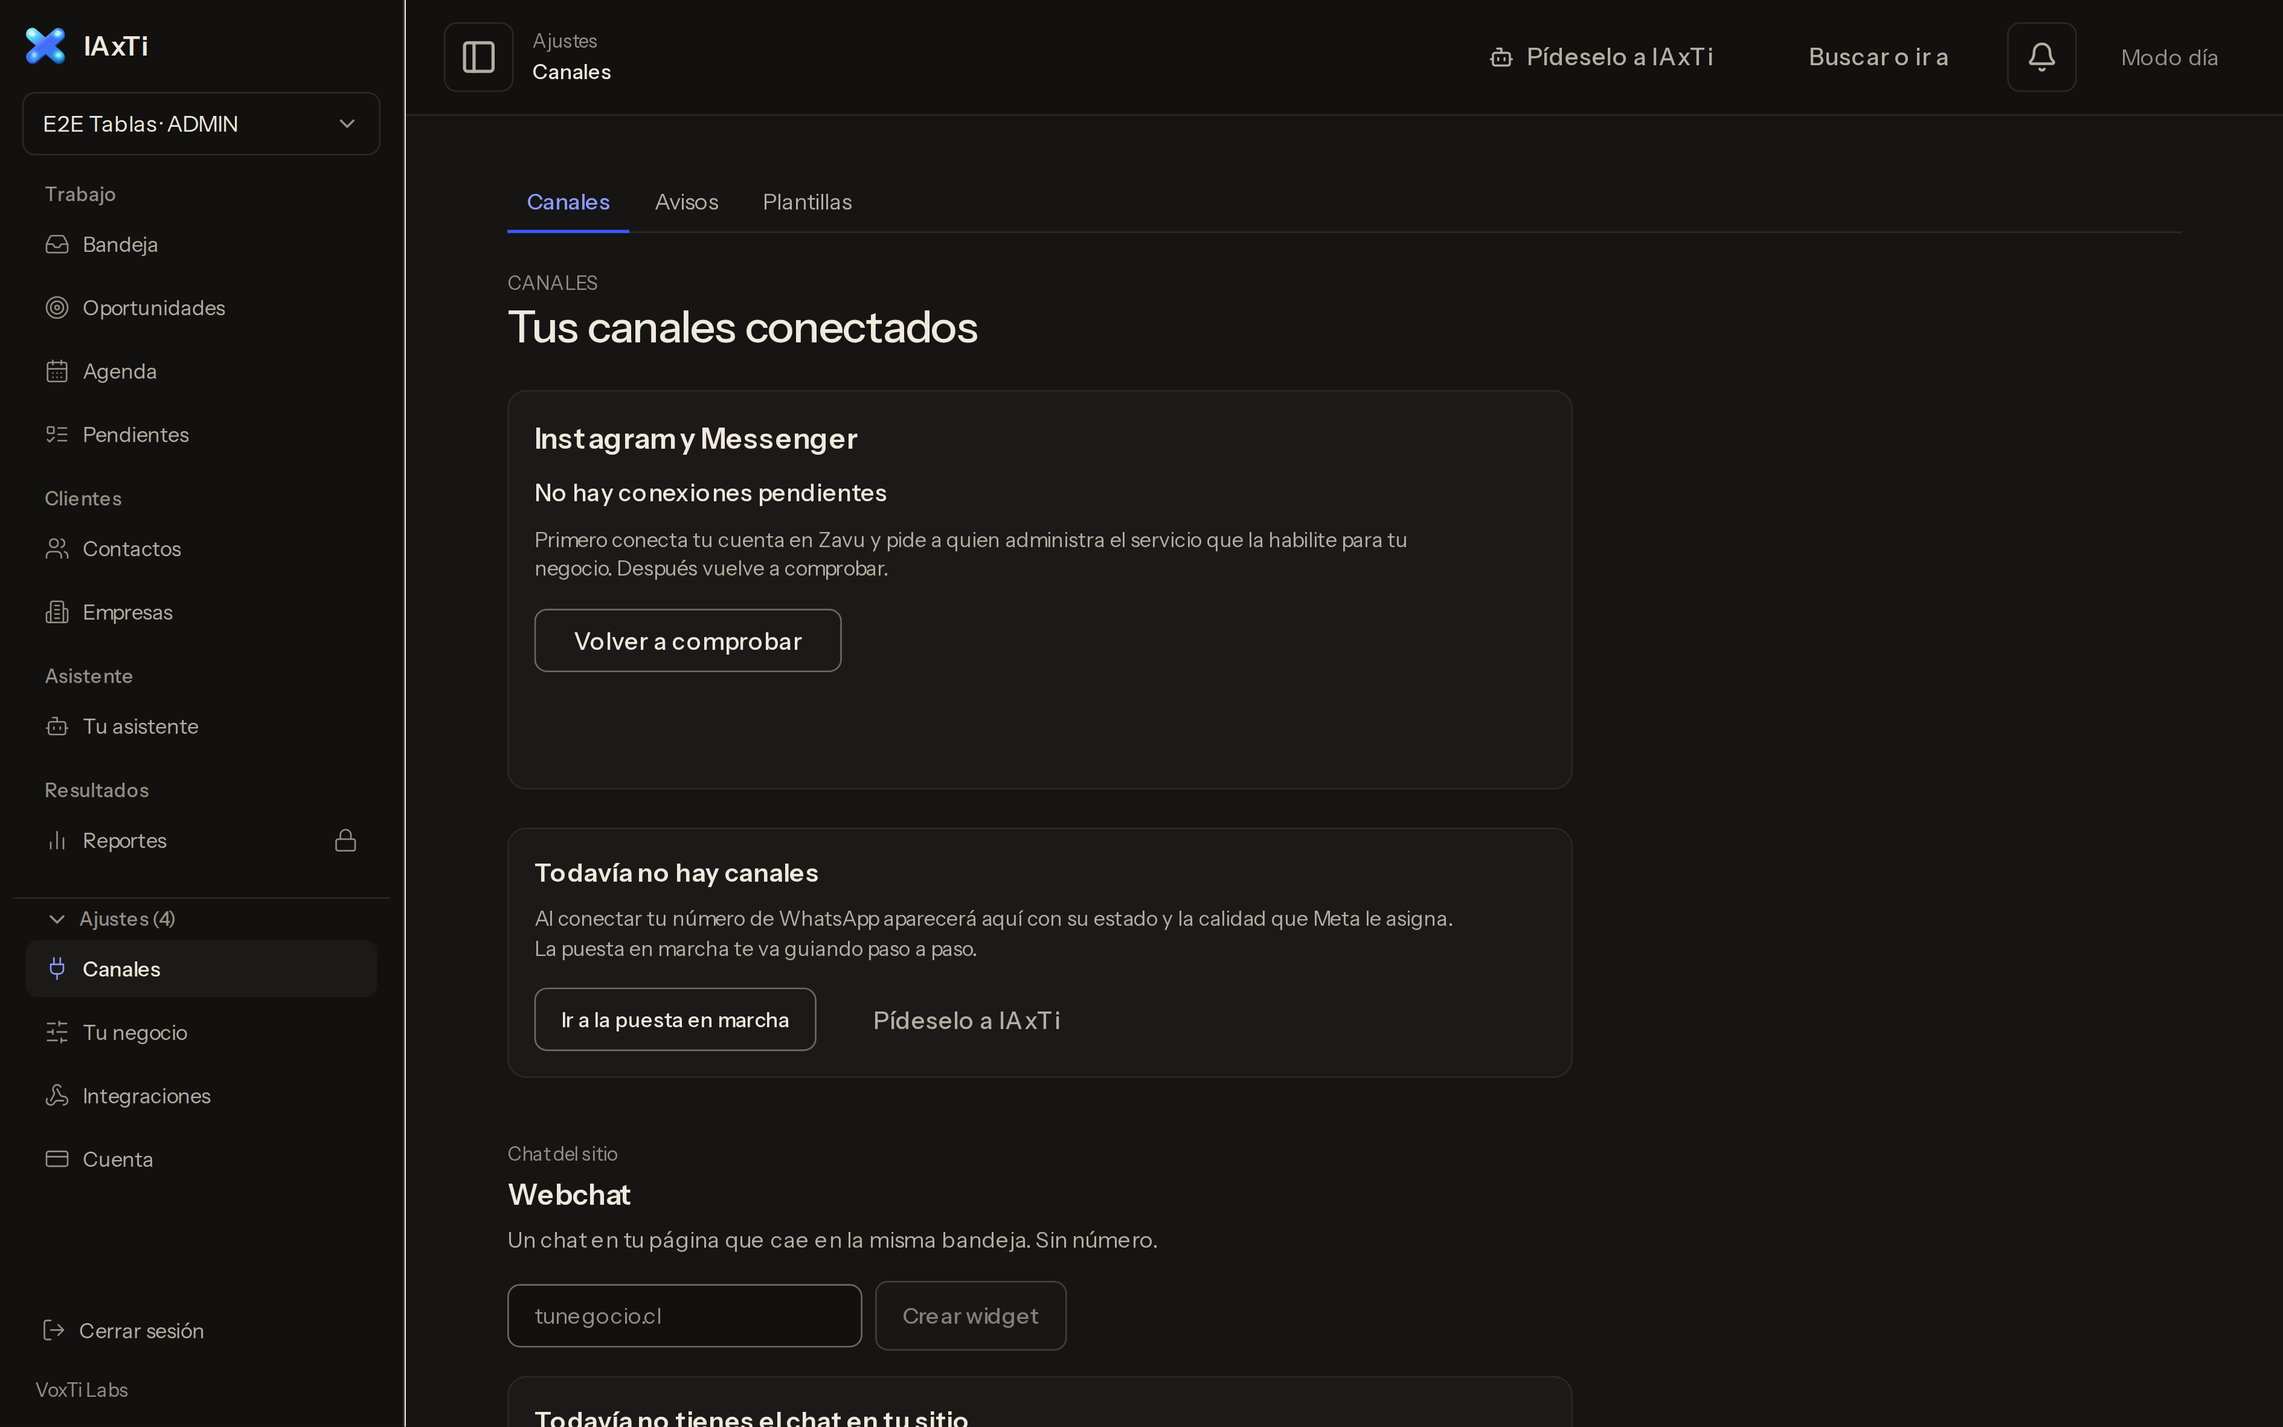
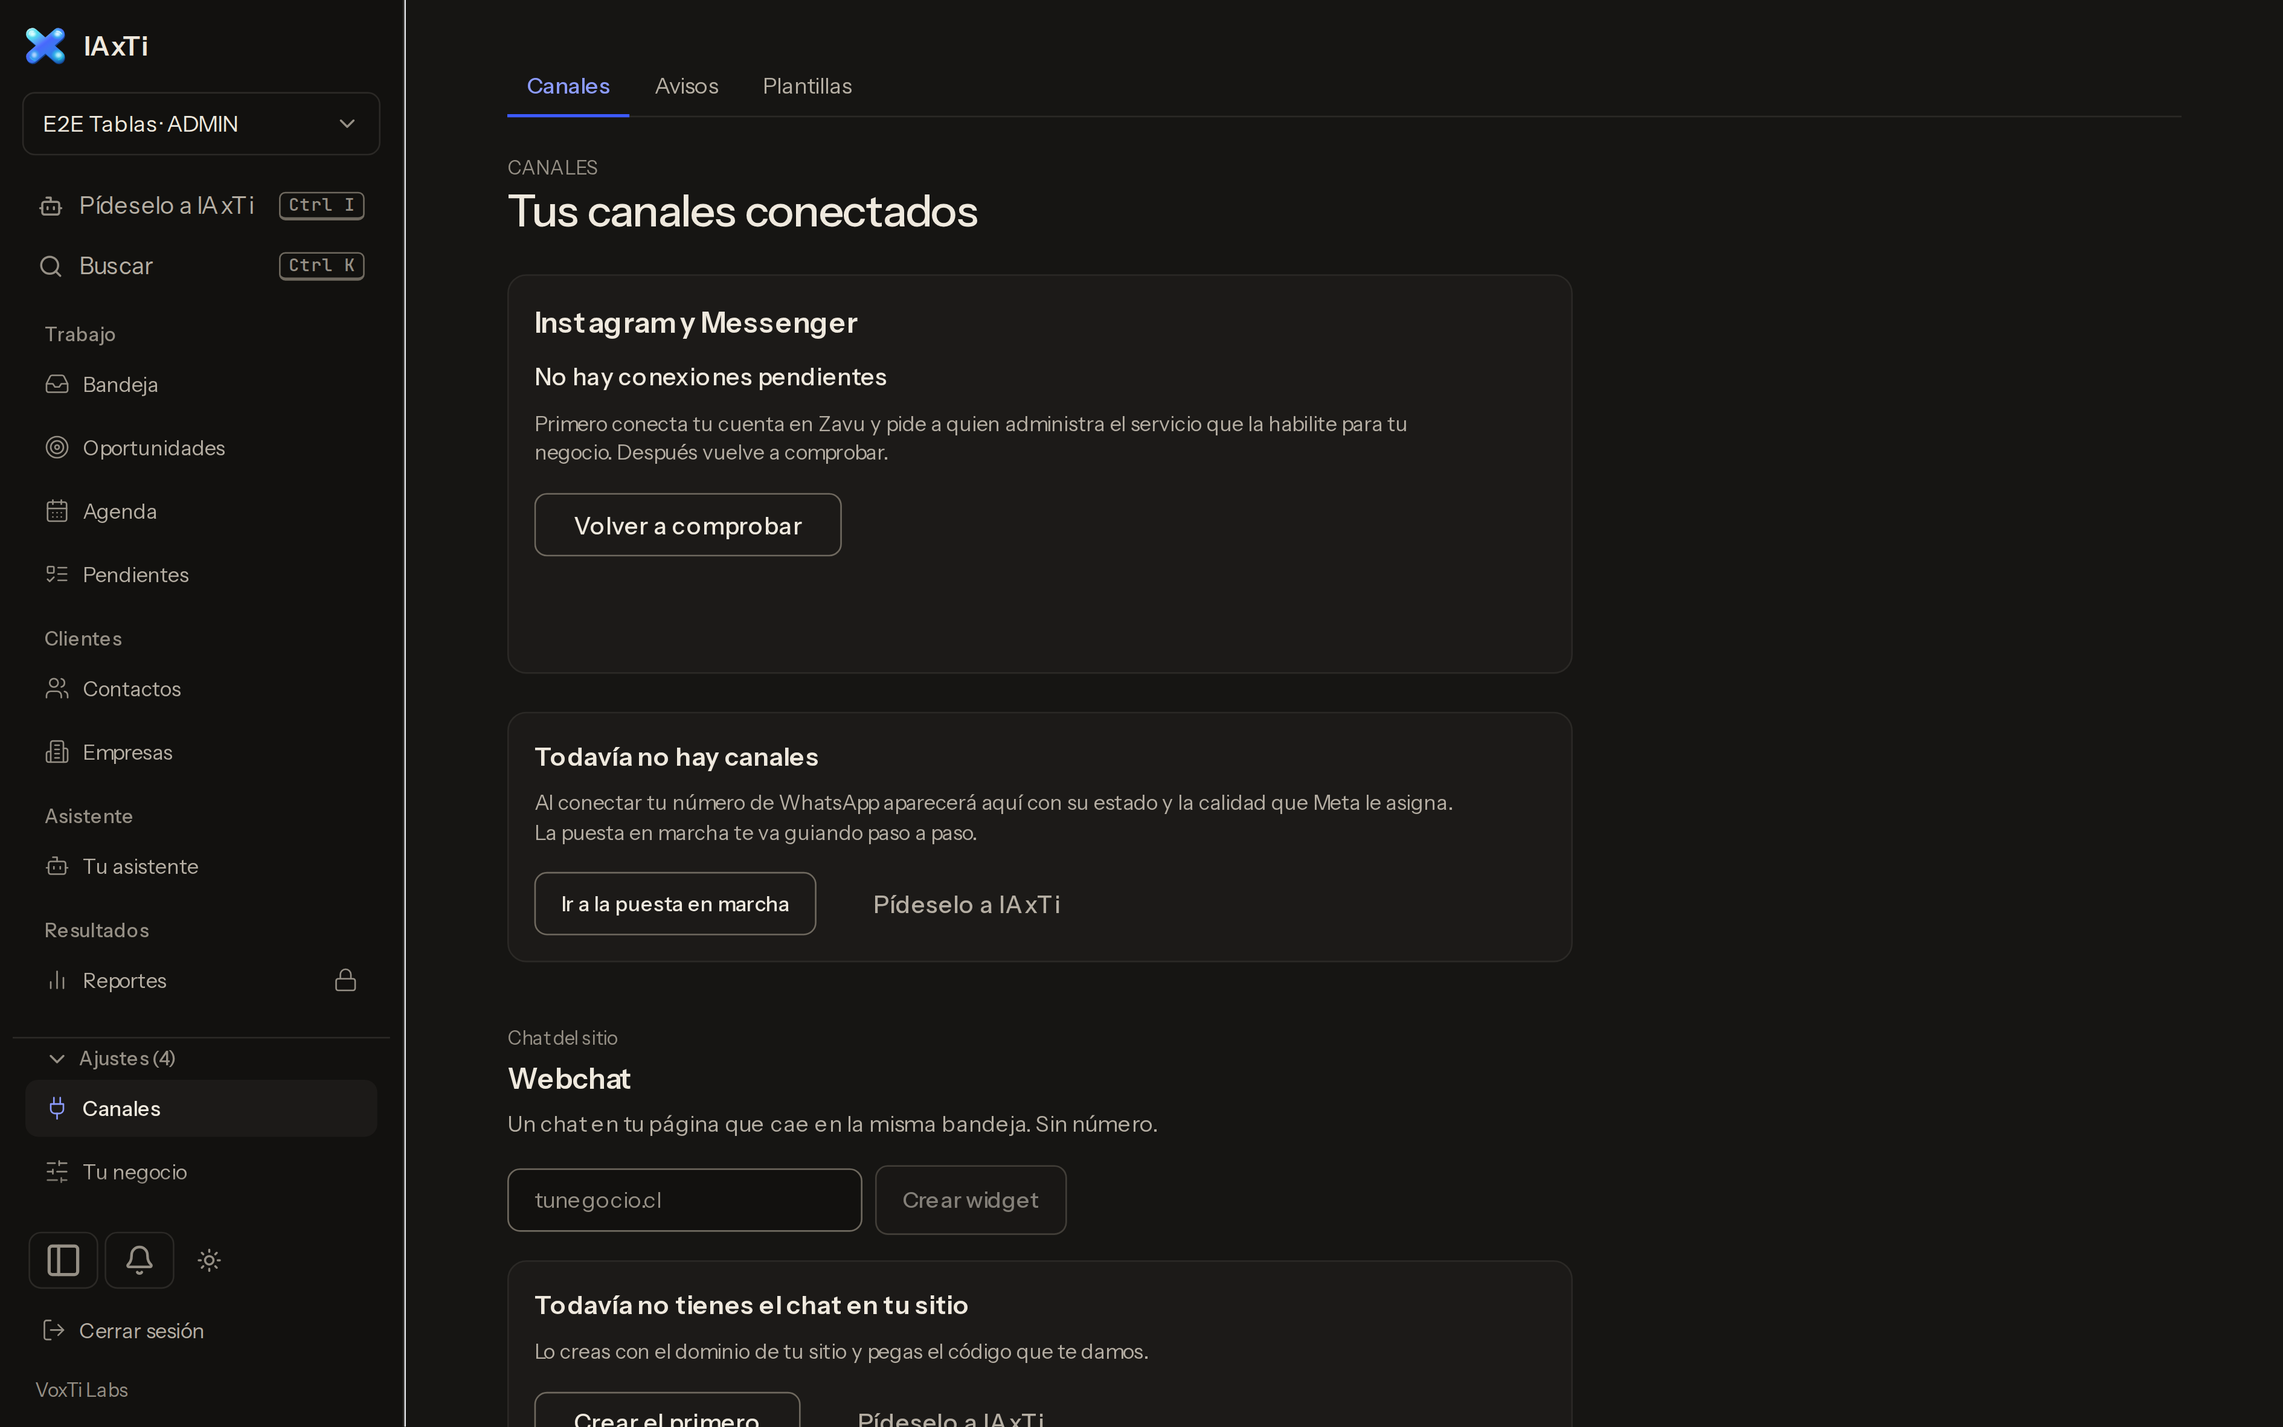
feat(ui): Mesón, el armazón — sin barra superior en escritorio (#1349)
* feat(ui): Mesón, el armazón — sin barra superior en escritorio (#1346)

Como en el prototipo aprobado: el título vive en la página y los
controles en la barra lateral.

- Escritorio: «Pídeselo a IAxTi» y «Buscar» son filas de la barra con
  su tecla (Ctrl I / Ctrl K); plegar, avisos y modo día/noche en el pie,
  solo icono. Plegada, quedan los iconos.
- Celular: la barra superior se queda —es la única forma de abrir el
  menú— con los mismos controles. Cada control se dibuja en UN lugar
  (useSidebar().isMobile): pedir y buscar registran su atajo y montarlos
  dos veces los dispararía dos veces.
- La barra arranca abierta también en la bandeja; barraPlegada se
  acepta y ya no pliega.
- Pruebas: agente-general afirma el orden en los dos lugares; teclado ya
  no abre la barra (estaba abierta y el clic la cerraba).

e2e completa local: 202/203; la que faltaba era la de teclado, corregida
(19/19 con la guarda de Mesón).

* fix(ui): el pie de la barra, sin bordes y con iconos de 16 px (#1346)

Las utilidades de Tailwind del botón ganaban por capa a la regla del pie.

---------

diff --git a/apps/web/components/app-shell.tsx b/apps/web/components/app-shell.tsx
@@ -21,6 +21,7 @@ import {
   SidebarProvider,
   SidebarRail,
   SidebarTrigger,
+  useSidebar,
   SessionProvider,
   useSession,
   type PublicConfig,
@@ -95,6 +96,8 @@ interface ShellProps {
    * Por qué la bandeja sí la pliega: sus TRES paneles —lista, chat, ficha— no
    * caben de otra forma, y quien abre una conversación se queda ahí.
    */
+  /** Ya no pliega nada (Mesón, #1346): la barra arranca abierta en todas las
+   *  pantallas. Se acepta para no tocar las páginas que lo pasan. */
   barraPlegada?: boolean;
   /**
    * Pantallas que ocupan el alto, no el ancho (#1135): el asistente.
@@ -474,8 +477,19 @@ function CerrarSesion() {
   );
 }
 
+/**
+ * La barra superior solo existe en el celular (Mesón, #1346): ahí es la única
+ * forma de abrir el menú. En escritorio el título vive en la página y los
+ * controles en la barra lateral.
+ */
+function CabezaDelCelular({ children }: { children: React.ReactNode }) {
+  const { isMobile } = useSidebar();
+  return isMobile ? <>{children}</> : null;
+}
+
 function Barra({ nav, candados }: { nav: NavItem[]; candados: Set<string> }) {
   const activa = usePathname();
+  const { isMobile } = useSidebar();
 
   const grupos = useMemo(() => {
     const por = new Map<string, NavItem[]>();
@@ -544,6 +558,16 @@ function Barra({ nav, candados }: { nav: NavItem[]; candados: Set<string> }) {
         <div className="group-data-[collapsible=icon]:hidden">
           <TenantSwitcher />
         </div>
+        {/* Mesón (#1346): pedir y buscar viven en la barra, no en una barra
+            superior. Se dibujan en UN solo lugar —acá en escritorio, arriba en
+            el celular— porque cada uno registra su atajo de teclado y montarlo
+            dos veces lo dispararía dos veces. */}
+        {!isMobile && (
+          <div className="pulso-barra-acciones">
+            <AgenteGeneral enBarra />
+            <PaletaComandos nav={nav} enBarra />
+          </div>
+        )}
       </SidebarHeader>
 
       <SidebarContent ref={contenidoDeLaBarra}>
@@ -557,6 +581,13 @@ function Barra({ nav, candados }: { nav: NavItem[]; candados: Set<string> }) {
             borde del área que hace scroll, así que la línea era una tercera
             forma de decir lo mismo — y costaba altura en la barra que no
             llegaba a mostrar su último grupo. */}
+        {!isMobile && (
+          <div className="pulso-barra-pie">
+            <SidebarTrigger />
+            <Campana />
+            <ModeToggle compacto />
+          </div>
+        )}
         <SidebarMenu>
           <SidebarMenuItem>
             <CerrarSesion />
@@ -659,7 +690,7 @@ function useNavDeRespaldo(hace: boolean): {
   return { nav, fallo, reintentar: () => setIntento((n) => n + 1) };
 }
 
-function ContenidoShell({ nav: navDelServidor, sinMargen, barraPlegada, altoCompleto, children }: ShellProps) {
+function ContenidoShell({ nav: navDelServidor, sinMargen, altoCompleto, children }: ShellProps) {
   // Menú y pestañas comparten la misma lectura; no duplicar módulos/acceso.
   const candados = useModulosConCandado();
   const respaldo = useNavDeRespaldo(navDelServidor === null);
@@ -720,7 +751,10 @@ function ContenidoShell({ nav: navDelServidor, sinMargen, barraPlegada, altoComp
             pantalla de tres paneles, y ahí cada píxel de ancho es una
             columna que se ve. */}
         <SidebarProvider
-          defaultOpen={!barraPlegada}
+          // Mesón (#1346): la barra arranca abierta también en la bandeja,
+          // como en el prototipo. A 1440 caben barra, lista, chat y ficha; quien
+          // la pliega queda recordado por la cookie del componente.
+          defaultOpen
           className={
             sinMargen
               ? 'pulso-workspace pulso-workspace-inbox'
@@ -732,6 +766,10 @@ function ContenidoShell({ nav: navDelServidor, sinMargen, barraPlegada, altoComp
           <Barra nav={nav} candados={candados} />
           <SidebarInset>
             <SoporteAviso />
+            {/* Sin barra superior en escritorio (Mesón, #1346): el título vive en
+                la página y los controles en la barra lateral. En el celular sí,
+                porque es la única forma de abrir el menú. */}
+            <CabezaDelCelular>
             <header className="pulso-topbar flex items-center gap-3 border-b border-line px-6 py-3">
               <SidebarTrigger />
               <div className="pulso-context">
@@ -749,6 +787,7 @@ function ContenidoShell({ nav: navDelServidor, sinMargen, barraPlegada, altoComp
                 <ModeToggle />
               </div>
             </header>
+            </CabezaDelCelular>
             {/* Un menú vacío no puede ser el mensaje de error (#679). Antes
                 la barra desaparecía y la pantalla no decía nada: quien la miraba
                 concluía que el producto se rompió, que es lo que pasó el 27/09.

diff --git a/packages/ui/pulso-vivo.css b/packages/ui/pulso-vivo.css
@@ -398,3 +398,20 @@ body { background: var(--canvas); font-size: 15px; }
   -webkit-mask: radial-gradient(6px at 50% 100%, transparent 98%, black) 50% 100% / 12px 100% repeat-x;
           mask: radial-gradient(6px at 50% 100%, transparent 98%, black) 50% 100% / 12px 100% repeat-x;
 }
+/* Mesón (#1346): pedir y buscar como filas de la barra lateral, con su tecla. */
+.pulso-barra-acciones { display: flex; flex-direction: column; gap: 2px; }
+.pulso-fila-de-barra { width: 100%; height: 36px; min-height: 36px; justify-content: flex-start; gap: 10px; padding-inline: 10px; border-radius: 8px; color: var(--text-body); font-weight: 400; }
+.pulso-fila-de-barra > svg { width: 16px; height: 16px; color: var(--text-muted); }
+.pulso-fila-de-barra:hover { background: var(--bg-rest); color: var(--text); }
+.pulso-tecla { margin-left: auto; padding: 2px 5px; border: 1px solid var(--border-strong); border-bottom-width: 2px; border-radius: 4px; font: 500 11px/1 'JetBrains Mono', ui-monospace, monospace; color: var(--text-muted); }
+.pulso-barra-pie { display: flex; align-items: center; gap: 4px; padding: 0 4px; }
+/* `!important` a propósito: estos botones traen `border` y `h-11 w-11` de
+   Tailwind, y las utilidades ganan por capa aunque este selector sea más
+   específico. Son tres controles, en un solo lugar. */
+.pulso-barra-pie button { min-height: 36px !important; min-width: 36px !important; height: 36px !important; width: 36px !important; padding: 0 !important; border-radius: 8px; border-color: transparent !important; background: transparent; box-shadow: none !important; color: var(--text-muted); }
+.pulso-barra-pie button:hover { background: var(--bg-rest); color: var(--text); }
+.pulso-barra-pie button svg { width: 16px !important; height: 16px !important; }
+.group[data-collapsible="icon"] .pulso-fila-texto,
+.group[data-collapsible="icon"] .pulso-tecla { display: none; }
+.group[data-collapsible="icon"] .pulso-fila-de-barra { justify-content: center; padding: 0; }
+.group[data-collapsible="icon"] .pulso-barra-pie { flex-direction: column; }

diff --git a/apps/web/components/paleta-comandos.tsx b/apps/web/components/paleta-comandos.tsx
@@ -1,5 +1,6 @@
 'use client';
 
+import { Search } from 'lucide-react';
 import { useEffect, useState } from 'react';
 import { useRouter } from 'next/navigation';
 import {
@@ -9,7 +10,7 @@ import {
 import { apiFetch, ApiError, type BusquedaHit } from '../lib/api';
 import { selectedTenant } from './tenant-switcher';
 
-export function PaletaComandos({ nav }: { nav: Array<{ path: string; label: string }> }) {
+export function PaletaComandos({ nav, enBarra = false }: { nav: Array<{ path: string; label: string }>; enBarra?: boolean }) {
   const { session, config } = useSession();
   const router = useRouter();
   const [open, setOpen] = useState(false);
@@ -57,7 +58,10 @@ export function PaletaComandos({ nav }: { nav: Array<{ path: string; label: stri
   const go = (path: string) => { setOpen(false); router.push(path); };
   const normal = (text: string) => text.normalize('NFD').replace(/[\u0300-\u036f]/g, '').toLowerCase();
   return <Dialog open={open} onOpenChange={setOpen}>
-    <DialogTrigger asChild><Button variant="fantasma" aria-label="Buscar o ir a" aria-keyshortcuts="Control+k Meta+k"><span className="sm:hidden">Buscar</span><span className="hidden sm:inline">Buscar o ir a</span></Button></DialogTrigger>
+    <DialogTrigger asChild>{enBarra
+      /* En la barra lateral (Mesón, #1346): una fila con su icono y la tecla. */
+      ? <Button variant="fantasma" className="pulso-fila-de-barra" aria-label="Buscar o ir a" aria-keyshortcuts="Control+k Meta+k"><Search aria-hidden /><span className="pulso-fila-texto">Buscar</span><kbd className="pulso-tecla">Ctrl K</kbd></Button>
+      : <Button variant="fantasma" aria-label="Buscar o ir a" aria-keyshortcuts="Control+k Meta+k"><span className="sm:hidden">Buscar</span><span className="hidden sm:inline">Buscar o ir a</span></Button>}</DialogTrigger>
     <DialogContent className="pulso-entrada">
       <DialogTitle>Buscar o ir a una pantalla</DialogTitle>
       <DialogDescription>Ctrl+K o ⌘K abre la paleta. Usa las flechas para elegir y Enter para abrir.</DialogDescription>

diff --git a/packages/ui/src/react/mode-toggle.tsx b/packages/ui/src/react/mode-toggle.tsx
@@ -5,7 +5,7 @@ import { Moon as Luna, Sun as Sol } from 'lucide-react';
 import { getMode, toggleMode, type PulsoMode } from '../mode';
 
 /** Cambia día/noche y persiste la elección por usuario (Pulso §9/§11). */
-export function ModeToggle() {
+export function ModeToggle({ compacto = false }: { compacto?: boolean } = {}) {
   const [mode, setModeState] = useState<PulsoMode>('dia');
   useEffect(() => setModeState(getMode()), []);
   return (
@@ -36,10 +36,12 @@ export function ModeToggle() {
        * un texto largo, y acá quien usa lector de pantalla oye lo mismo en
        * las dos anchuras.
        */}
-      <span className="hidden sm:inline">{mode === 'dia' ? 'Modo noche' : 'Modo día'}</span>
+      {/* Compacto (Mesón, #1346): en el pie de la barra es solo el icono; el
+          nombre accesible ya dice qué hace. */}
+      {!compacto && <span className="hidden sm:inline">{mode === 'dia' ? 'Modo noche' : 'Modo día'}</span>}
       {mode === 'dia'
-        ? <Luna aria-hidden className="size-5 sm:hidden" />
-        : <Sol aria-hidden className="size-5 sm:hidden" />}
+        ? <Luna aria-hidden className={compacto ? 'size-4' : 'size-5 sm:hidden'} />
+        : <Sol aria-hidden className={compacto ? 'size-4' : 'size-5 sm:hidden'} />}
     </button>
   );
 }

diff --git a/apps/web/components/agente-general.tsx b/apps/web/components/agente-general.tsx
@@ -17,18 +17,21 @@ import { Button, Dialog, DialogContent, DialogDescription, DialogTitle } from '@
 import { Conversacion } from './agente/conversacion';
 import { useAgente } from './agente/estado';
 
-export function AgenteGeneral() {
+export function AgenteGeneral({ enBarra = false }: { enBarra?: boolean } = {}) {
   const { abierto, setAbierto } = useAgente();
   return (
     <Dialog open={abierto} onOpenChange={setAbierto}>
       <Button
         variant="fantasma"
+        className={enBarra ? 'pulso-fila-de-barra' : undefined}
         onClick={() => setAbierto(true)}
         aria-keyshortcuts="Control+i Meta+i"
         aria-label="Pedirle algo a IAxTi"
       >
         <Bot aria-hidden className="size-4" />
-        <span className="hidden sm:inline">Pídeselo a IAxTi</span>
+        {enBarra
+          ? <><span className="pulso-fila-texto">Pídeselo a IAxTi</span><kbd className="pulso-tecla">Ctrl I</kbd></>
+          : <span className="hidden sm:inline">Pídeselo a IAxTi</span>}
       </Button>
       <DialogContent className="pulso-entrada flex max-h-[min(78vh,640px)] w-[calc(100vw-24px)] max-w-2xl flex-col gap-0 p-0">
         <div className="flex flex-col gap-1 border-b border-line px-6 py-4">

diff --git a/apps/web/e2e/teclado.spec.ts b/apps/web/e2e/teclado.spec.ts
@@ -72,7 +72,8 @@ test('cambiar de negocio descarta la conversación sobre la que actúan los ataj
   await expect(page.getByRole('button', { name: /Ana Teclado/ })).toBeVisible();
   await page.keyboard.press('j');
   await expect(page.getByRole('textbox', { name: 'Mensaje', exact: true })).toBeVisible();
-  await page.getByRole('button', { name: 'Mostrar u ocultar el menú' }).click();
+  // Desde Mesón (#1346) la barra arranca abierta también en la bandeja: el
+  // selector de negocio ya está a la vista y abrirla sería cerrarla.
   await elegirPorValor(page, { nombre: 'Negocio', exacto: true }, auth.tableTenantId);
   await expect(page.getByRole('textbox', { name: 'Mensaje', exact: true })).toHaveCount(0);
   await expect(page.getByRole('button', { name: /Ana Teclado/ })).toHaveCount(0);

diff --git a/apps/web/tests/agente-general.test.ts b/apps/web/tests/agente-general.test.ts
@@ -39,7 +39,12 @@ describe('está presente en toda la app', () => {
   });
 
   it('va antes de buscar: pedir es lo que se hace más seguido', () => {
-    expect(SHELL.indexOf('<AgenteGeneral />')).toBeLessThan(SHELL.indexOf('<PaletaComandos'));
+    // Desde Mesón (#1346) se dibujan en dos lugares —la barra lateral en
+    // escritorio, la cabecera en el celular— y en los dos va primero pedir.
+    const pedir = [...SHELL.matchAll(/<AgenteGeneral\b/g)].map((m) => m.index!);
+    const buscar = [...SHELL.matchAll(/<PaletaComandos\b/g)].map((m) => m.index!);
+    expect(pedir.length).toBe(buscar.length);
+    pedir.forEach((i, n) => expect(i).toBeLessThan(buscar[n]));
   });
 
   it('se abre con un atajo desde cualquier pantalla', () => {
